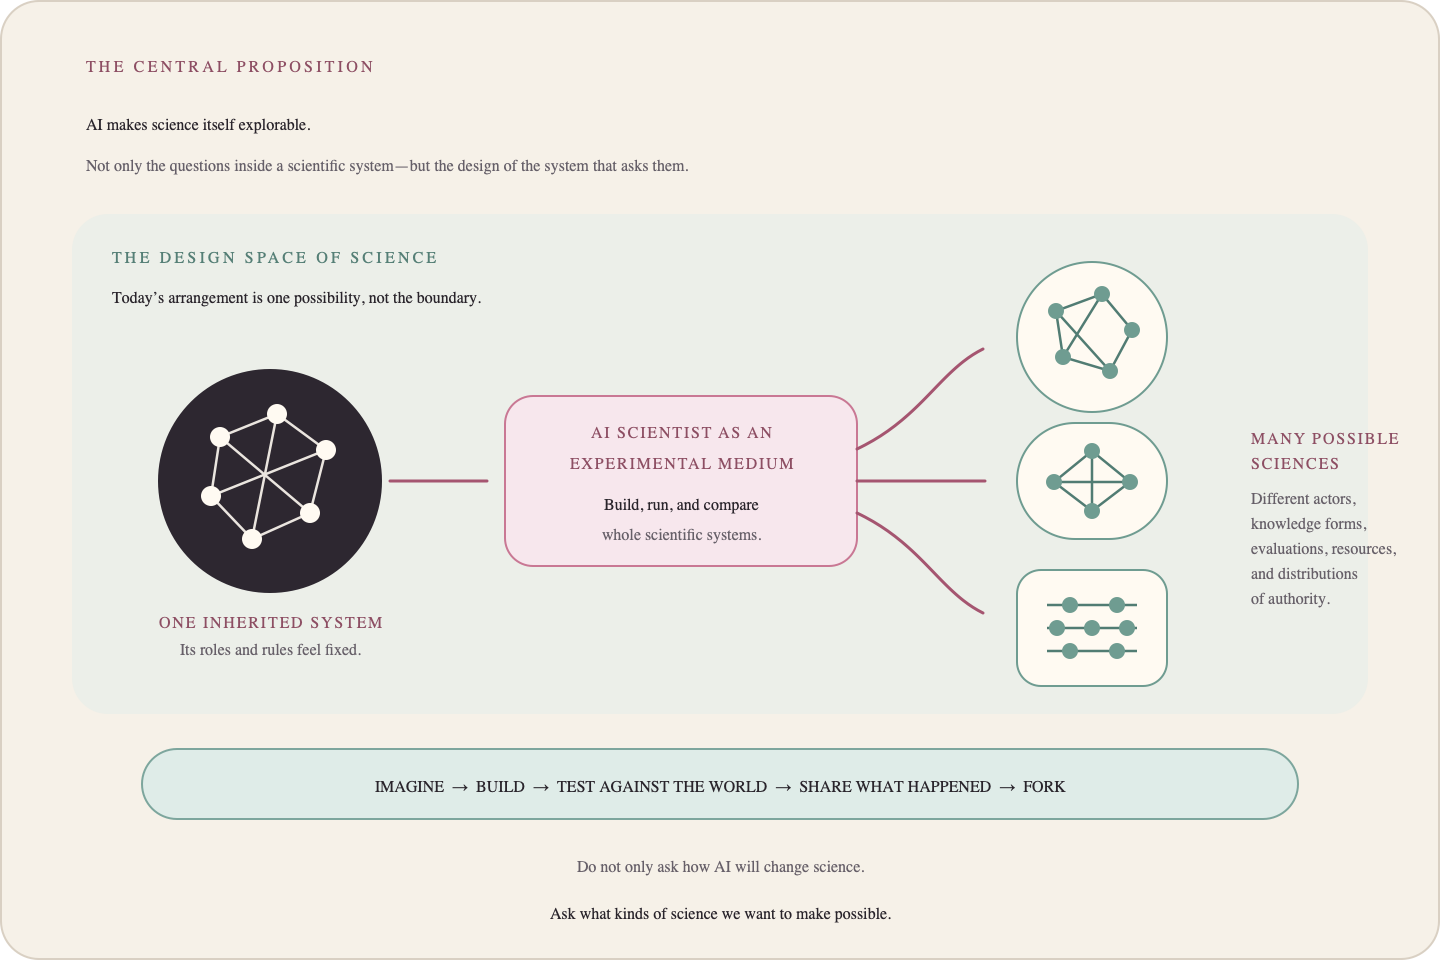
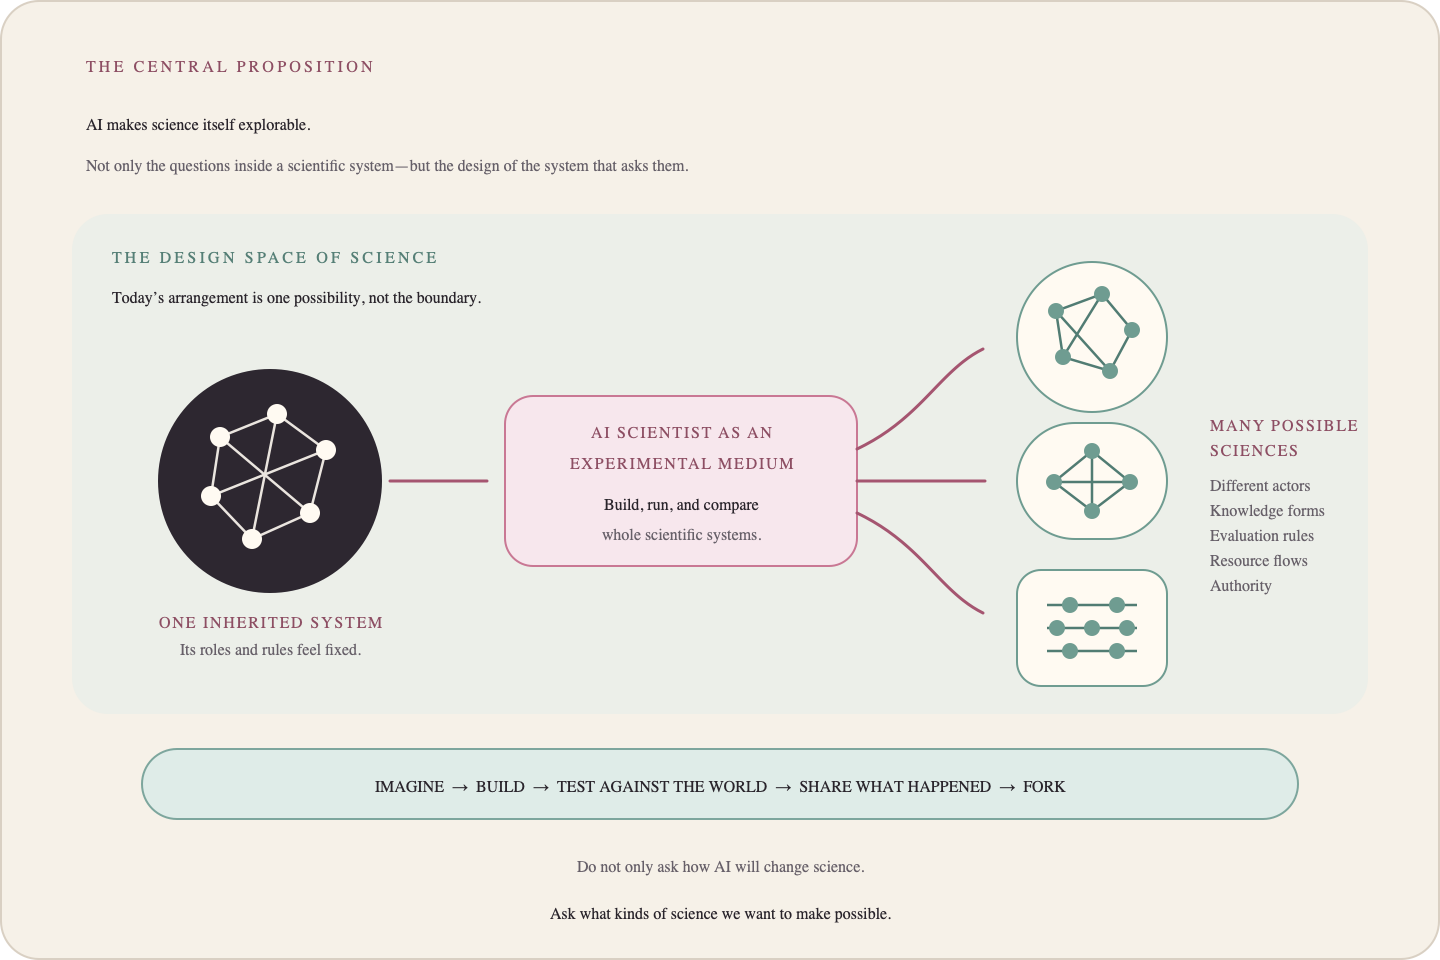
Fix mobile blog layout and figure

Changed region(s): [[0.8438, 0.4375, 0.9688, 0.625]]

diff --git a/blog/another-vision-of-metascience.html b/blog/another-vision-of-metascience.html
@@ -75,7 +75,7 @@
 <p>Early versions of some of these ideas are already appearing. <a href="https://agents4science.stanford.edu/call-for-papers.html">Agents4Science</a>, held in 2025, required AI to be the first author of submitted papers and incorporated review by multiple AI systems. <a href="https://caisc2026.github.io/cfp.html">CAISc</a> likewise positions AI as the primary author and reviewer. <a href="https://aixiv.science/aisc2026/">AISC 2026</a> goes further, proposing that AI agents conduct review, discussion, rebuttal, and acceptance decisions. The division of labor between humans and AI differs across these experiments: humans may organize the venue, advise the research, participate in the work, or retain final authority. Even so, attempts to rearrange the basic architecture of science—who researches, who evaluates, and how results become public—have begun.</p>
 <p>These arrangements may not prove desirable. Some may not work at all. What matters is that configurations of science that once existed only as thought experiments may now be implemented, at least partially, and observed in operation.</p>
 <p>AI is not only a new kind of actor performing science as we know it. It may also become material with which we can decompose the roles and relationships that constitute science and reassemble them differently. Its arrival makes units that once appeared fixed—“the researcher,” “the paper,” “peer review,” “the research organization”—visible as design choices again.</p>
-<figure class="wide">
+<figure class="core-thesis-figure">
   <picture>
     <source media="(max-width: 640px)" srcset="../images/blog/another-vision-of-metascience/core-thesis-mobile.svg">
     <img src="../images/blog/another-vision-of-metascience/core-thesis.svg" alt="An inherited scientific system passes through AI as an experimental medium and branches into many possible forms of science, making actors, knowledge, evaluation, resources, and authority open to exploration.">

diff --git a/styles.css b/styles.css
@@ -1390,6 +1390,15 @@ footer a:hover {
   background: var(--bg-elev);
 }
 
+.post-body figure.core-thesis-figure picture {
+  display: block;
+  width: 100%;
+}
+
+.post-body figure.core-thesis-figure img {
+  max-width: 100%;
+}
+
 .post-body figcaption {
   margin-top: 12px;
   text-align: center;
@@ -1435,6 +1444,13 @@ footer a:hover {
   .post-index .post-desc {
     grid-column: 1;
   }
+
+  .post-body figure.core-thesis-figure {
+    width: calc(100% + 48px);
+    max-width: none;
+    margin-left: -24px;
+    margin-right: -24px;
+  }
 }
 
 /* Wide schematics: scroll rather than shrink to illegibility on narrow screens */
@@ -1453,6 +1469,41 @@ footer a:hover {
   .post-body figure.wide figcaption::after {
     content: " (scroll to see the whole diagram)";
     color: rgba(244, 241, 234, 0.24);
+  }
+}
+
+@media (max-width: 520px) {
+  body.blog-page header {
+    left: 12px;
+    right: 12px;
+  }
+
+  body.blog-page nav {
+    width: 100%;
+    justify-content: space-between;
+    gap: 4px;
+    padding: 6px 6px 6px 12px;
+  }
+
+  body.blog-page .logo img {
+    height: 24px;
+  }
+
+  body.blog-page .nav-links {
+    gap: 0;
+  }
+
+  body.blog-page .nav-links .nav-link:first-child {
+    display: none;
+  }
+
+  body.blog-page .nav-link {
+    padding: 8px 7px;
+    font-size: 10px;
+  }
+
+  body.blog-page .nav-link.contact {
+    padding: 7px 5px 7px 10px;
   }
 }
 
